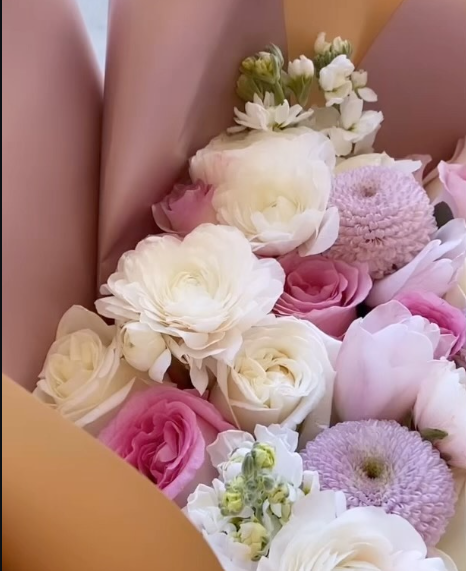
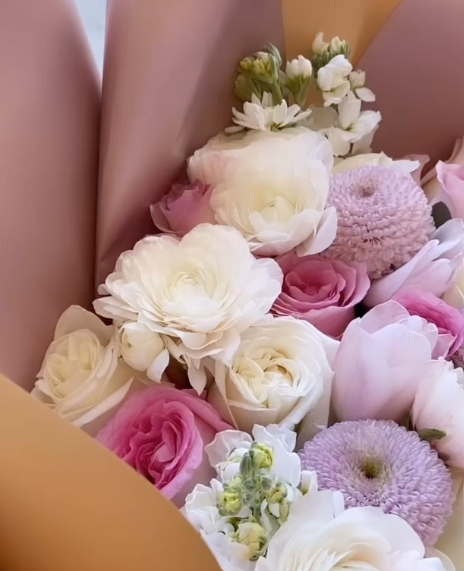
second commit

diff --git a/app/page.tsx b/app/page.tsx
@@ -52,9 +52,14 @@ export default function App() {
 
   return (
     <main className="min-h-dvh overflow-hidden bg-[#efdce1] text-white">
-      <header className="mx-auto flex w-full max-w-[1440px] items-center justify-between px-6 py-6 md:px-12 lg:px-16">
-        <nav aria-label="Primary" className="contents">
-          <div className="flex gap-3 md:gap-8">
+
+      <header className="mx-auto w-full max-w-[1440px] px-4 py-6 md:px-12 lg:px-16">
+        <nav
+          aria-label="Primary"
+          className="grid grid-cols-[1fr_auto_1fr] items-center md:flex md:justify-between"
+        >
+
+          <div className="flex justify-start gap-3 md:gap-8">
             <a className="nav-link" href="#gallery">
               gallery
             </a>
@@ -62,10 +67,15 @@ export default function App() {
               about
             </a>
           </div>
-          <a className="pill-link sm:inline-flex" href="#contact">
+
+          <a
+            className="pill-link justify-self-center"
+            href="#contact"
+          >
             send a request
           </a>
-          <div className="flex gap-3 md:gap-8">
+
+          <div className="flex justify-end gap-3 md:gap-8">
             <a className="nav-link" href="#occasions">
               occasions
             </a>
@@ -76,13 +86,15 @@ export default function App() {
         </nav>
       </header>
 
+
+
       <section
         aria-labelledby="hero-title"
-        className="relative mx-auto min-h-[430px] max-w-[1440px] px-6 pt-7 md:min-h-[650px] md:px-12"
+        className="relative mx-auto min-h-[calc(100svh-80px)] max-w-[1440px] px-5 pt-10 md:min-h-[650px] md:px-12 md:pt-7"
       >
         <svg
           aria-hidden="true"
-          className="pointer-events-none absolute left-[-7%] top-16 h-[360px] w-[114%] text-[#98596c]/35 md:top-20 md:h-[430px]"
+          className="pointer-events-none absolute left-[-7%] top-20 h-[65%] w-[114%] text-[#98596c]/35 md:top-20 md:h-[430px]"
           fill="none"
           preserveAspectRatio="none"
           viewBox="0 0 1200 430"
@@ -140,15 +152,15 @@ export default function App() {
         <div className="relative z-10 mx-auto max-w-[850px] text-center">
           <h1
             id="hero-title"
-            className="display-font relative z-20 text-[20vw] leading-[0.67] tracking-[-0.075em] text-[#98596c] sm:text-[16vw] lg:text-[188px]"
+            className="display-font relative z-20 text-[22vw] leading-[0.67] tracking-[-0.075em] text-[#98596c] sm:text-[18vw] md:text-[16vw] lg:text-[188px]"
           >
             <span className="block pr-[12%]">RAMOS</span>
             <span className="block pl-[8%]">FLOWERS</span>
           </h1>
 
-          <figure className="relative z-10 mx-auto -mt-8 w-[43vw] max-w-[270px] min-w-[180px] md:-mt-16 lg:-mt-20">
+          <figure className="relative z-10 mx-auto mt-8 w-[48vw] max-w-[220px] md:-mt-16 md:w-[43vw] md:max-w-[270px] md:min-w-[180px] lg:-mt-20">
             <img
-              className="h-[280px] w-full px-[22px] pb-[66px] pt-0 object-cover object-center md:h-[385px] md:p-0"
+              className="h-[44svh] min-h-[280px] max-h-[380px] w-full object-cover object-center md:h-[365px] md:min-h-0 md:max-h-none"
               src="/assets/heroramos1.png"
               alt="Florist holding an abundant bouquet"
             />
@@ -156,17 +168,17 @@ export default function App() {
         </div>
 
         <img
-          className="absolute left-2 top-[125px] h-[140px] w-[92px] object-cover sm:left-[4%] sm:top-[115px] sm:h-[180px] sm:w-[135px] md:top-[250px] md:h-[190px] md:w-[190px] lg:left-[7%]"
+          className="absolute bottom-[15%] left-4 h-[24svh] max-h-[180px] w-[28vw] max-w-[120px] object-cover md:bottom-auto md:left-[4%] md:top-[230px] md:h-[180px] md:w-[145px] md:max-w-none lg:left-[7%]"
           src="/assets/heroramos2.png"
           alt="Flowers arranged in a florist studio"
         />
         <img
-          className="absolute right-2 top-[125px] h-[140px] w-[92px] object-cover sm:right-[5%] sm:top-[115px] sm:h-[180px] sm:w-[135px] md:top-[110px] md:h-[220px] md:w-[170px] lg:right-[8%]"
+          className="absolute right-4 bottom-[30%] h-[22svh] max-h-[165px] w-[26vw] max-w-[110px] object-cover md:right-[5%] md:bottom-auto md:top-[110px] md:h-[220px] md:w-[170px] md:max-w-none lg:right-[8%]"
           src="/assets/heroramos3.png"
           alt="A delicate seasonal bouquet"
         />
         <a
-          className="display-font absolute right-2 top-[275px] z-20 inline-flex items-center justify-center rounded-[0.35rem] bg-[#98596c] px-3 py-1.5 text-base leading-none text-white transition-transform hover:-translate-y-0.5 sm:right-[5%] sm:top-[305px] sm:text-lg md:right-[10%] md:top-[390px] md:px-6 md:py-3 lg:right-[20%]"
+          className="display-font absolute right-4 bottom-[22%] z-20 inline-flex items-center justify-center rounded-[0.35rem] bg-[#98596c] px-3 py-1.5 text-base leading-none text-white transition-transform hover:-translate-y-0.5 md:right-[10%] md:bottom-auto md:top-[342px] md:px-4 md:py-2 md:text-lg lg:right-[14%]"
           href="tel:+13105550148"
         >
           Call us now!
@@ -177,7 +189,7 @@ export default function App() {
         id="about"
         className="mx-auto max-w-[1440px] px-6 pb-24 pt-0 text-center md:px-16 md:pb-36 md:pt-4"
       >
-        <p className="display-font mx-auto max-w-[1180px] text-3xl uppercase leading-[1.02] tracking-[-0.025em] text-[#98596c] sm:text-4xl md:text-5xl lg:text-6xl">
+        <p className="display-font mx-auto max-w-[1180px] text-3xl uppercase leading-[1.02] tracking-[-0.025em] text-[#98596c] sm:text-5xl md:text-5xl lg:text-6xl">
           <span className="flex flex-wrap items-baseline justify-center gap-x-4">
             <span className="font-['Manrope'] text-xl normal-case tracking-[-0.05em] text-white md:text-2xl">
               (about us)
@@ -185,8 +197,9 @@ export default function App() {
             <span>Blooming in Hawthorne</span>
           </span>
           <span className="block">
-            elegant paper wrapping and precise floral placement from
-            birthdays and weddings to anniversaries and everyday gestures Every bouquet leaves our studio with genuine care.
+            elegant paper wrapping floral placement <br />
+            birthdays and weddings to anniversaries <br />
+            Every bouquet leaves our studio with genuine care.
           </span>
         </p>
       </section>
@@ -270,7 +283,7 @@ export default function App() {
         className="bg-[#98596c] px-6 py-16 text-white md:px-16 md:py-24"
       >
         <div className="mx-auto grid max-w-[1312px] overflow-hidden border border-white/35 md:grid-cols-2">
-         <iframe
+          <iframe
             className="min-h-[320px] w-full border-0 md:min-h-[460px]"
             src="https://www.google.com/maps?q=33.9160325,-118.3616756&z=17&output=embed"
             title="Ramos Flowers location in Hawthorne, California"
